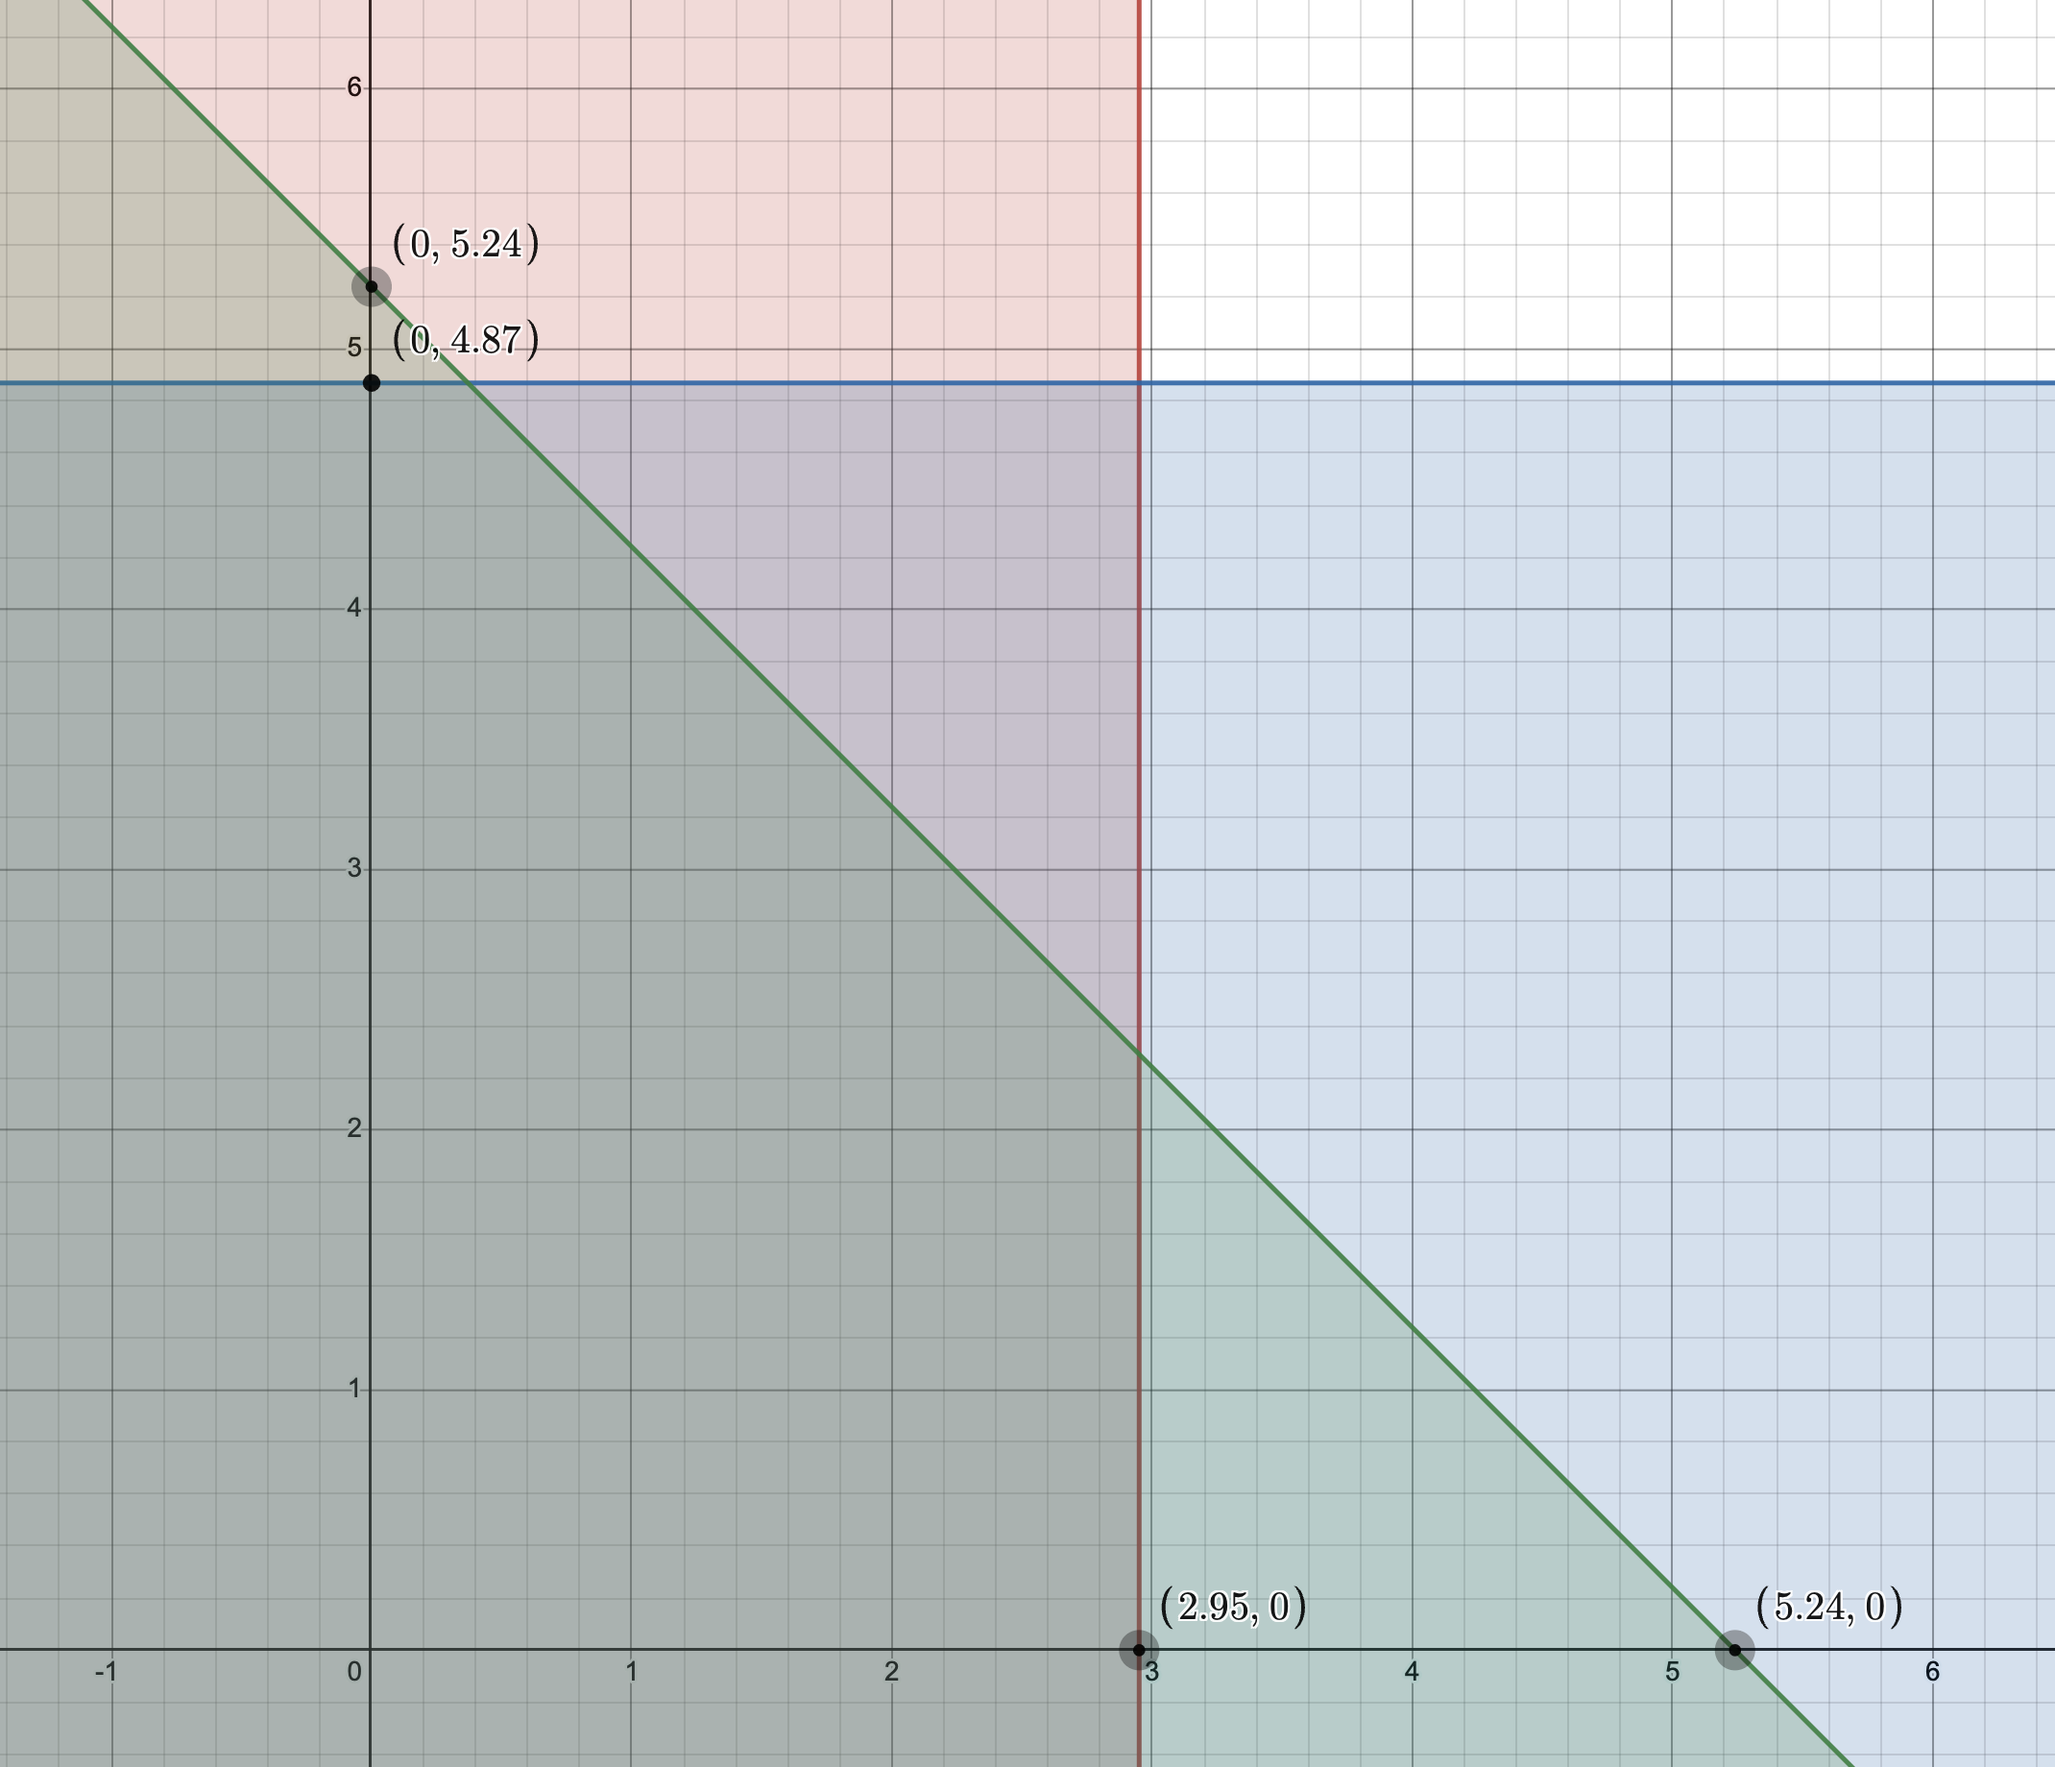
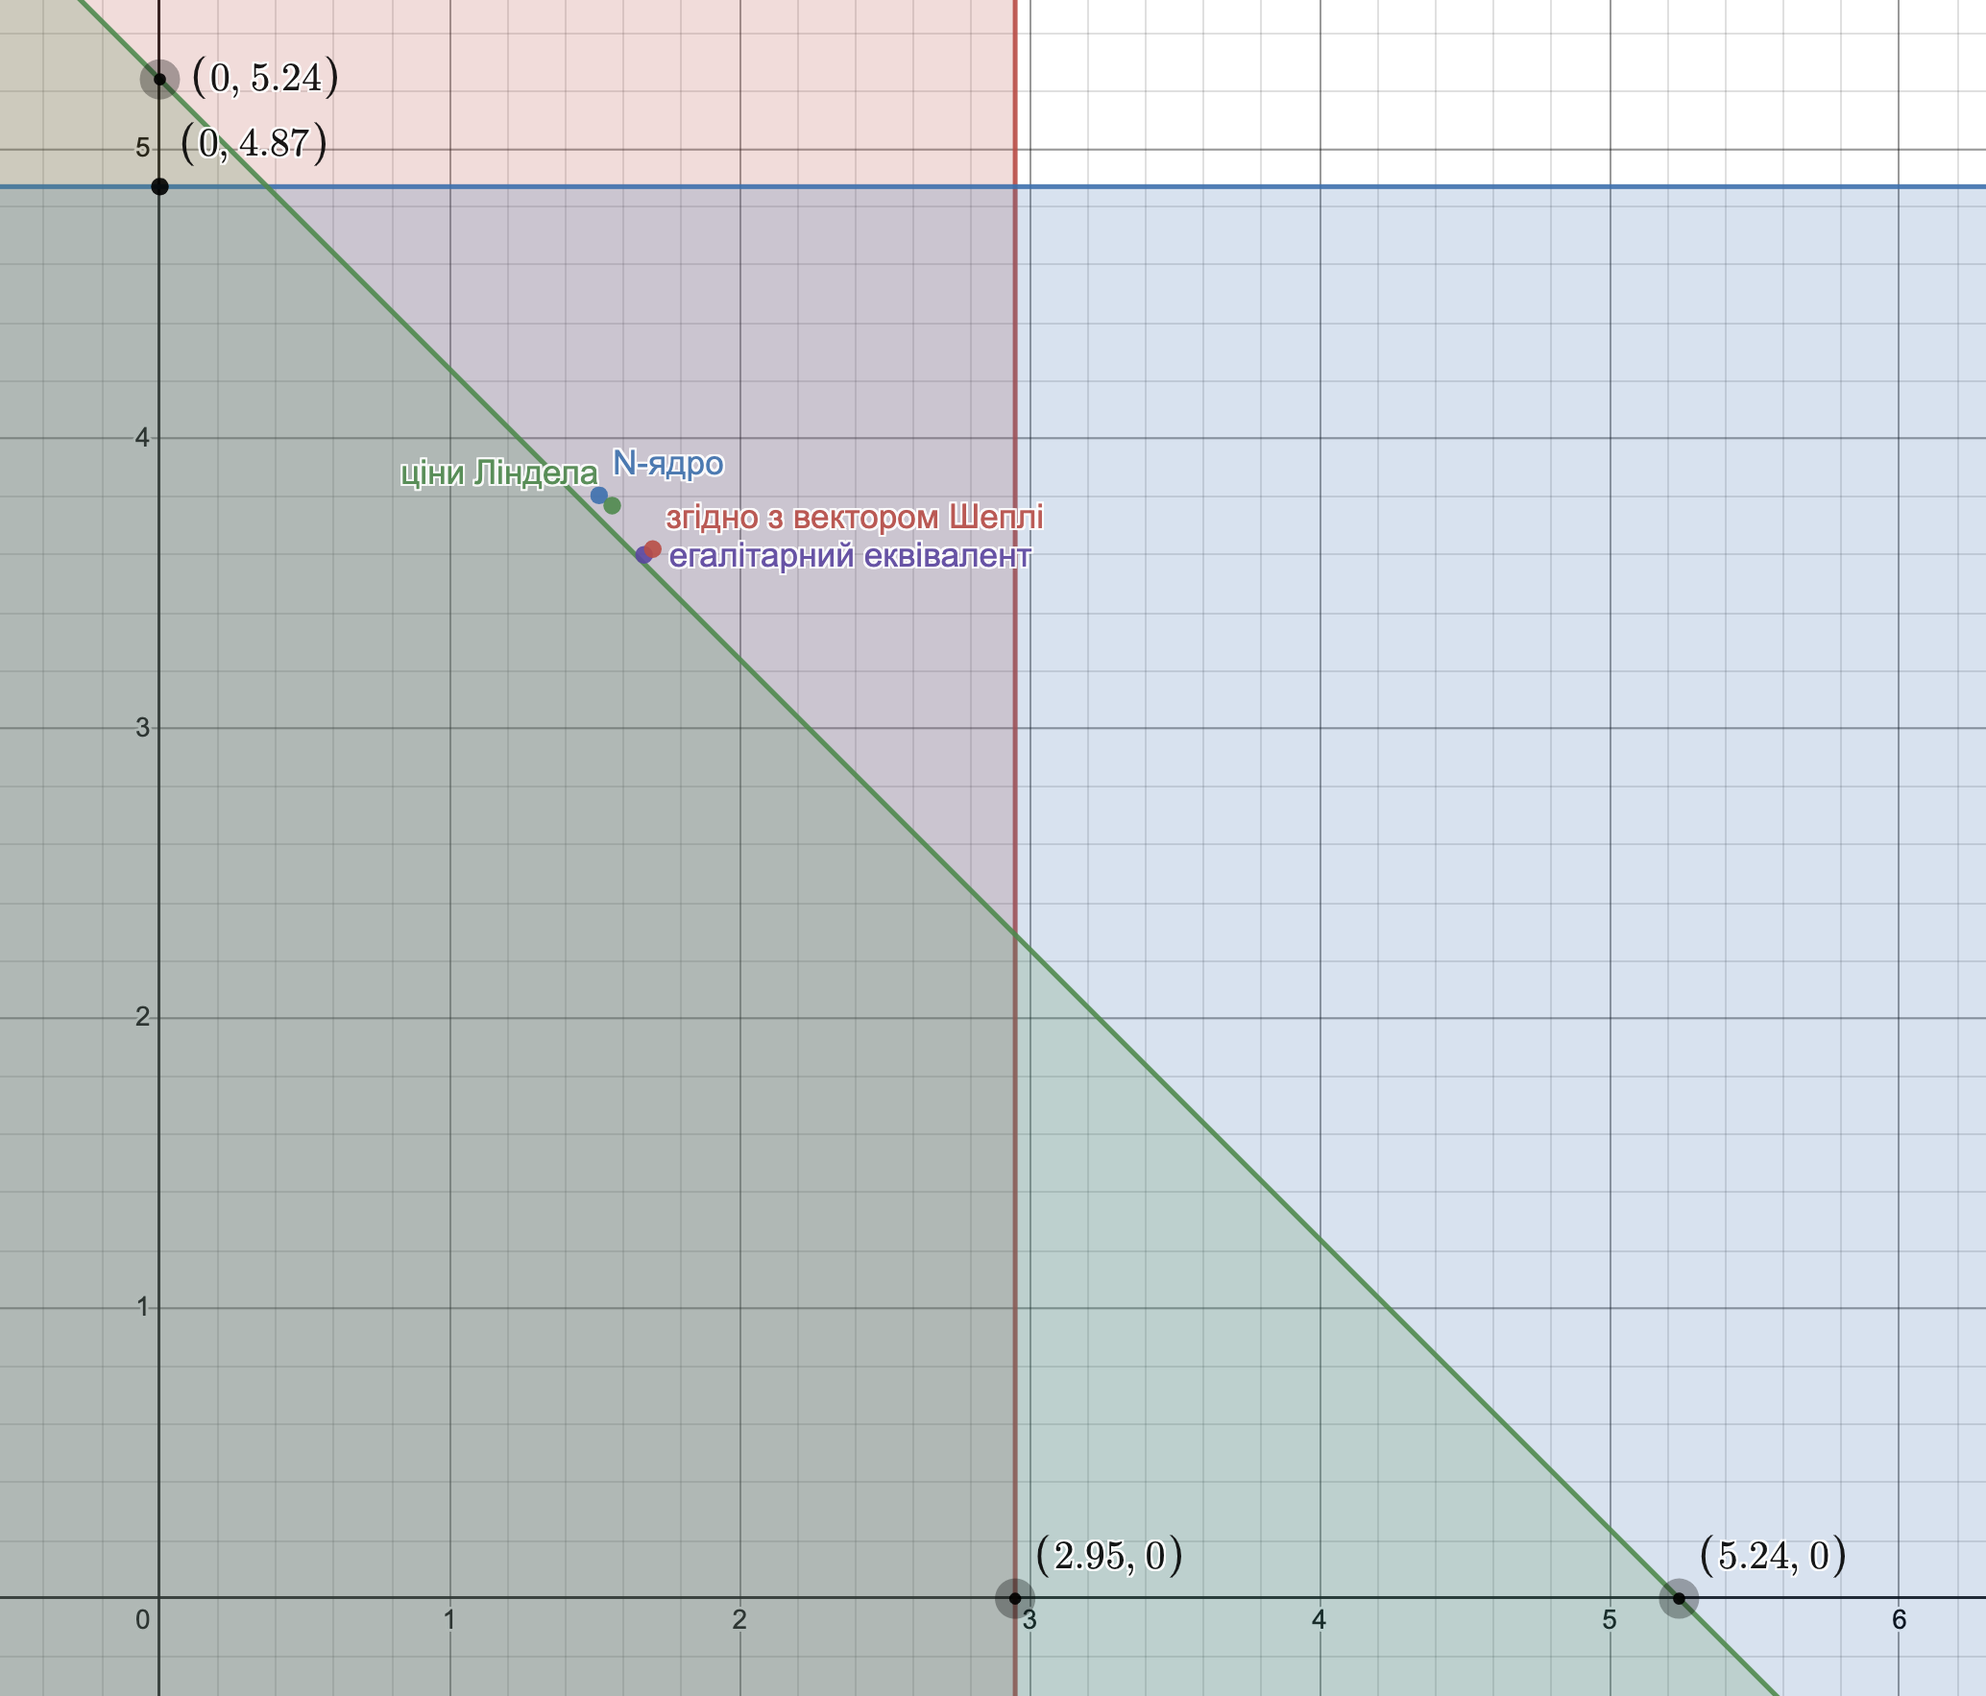
add points to graphs, fix font-size

diff --git a/src/docs/course-2/semester-2/decision/task-8/task1-1.md b/src/docs/course-2/semester-2/decision/task-8/task1-1.md
@@ -1,5 +1,7 @@
 # Задача 8.1
 
+<style>.katex { font-size: 0.9em !important; }</style>
+
 1. Нехай є п’ять учасників спільної діяльності $n = 5$. Припустимо, що доходи учасників дорівнюють відповідно: $b_1 = 4, b_2 = 8, b_3 = 12, b_4 = 20, b_5 = 26$, а загальні витрати на проект складають:
 
 а) $C = 30$ одиниць;

diff --git a/src/docs/course-2/semester-2/decision/task-9/task-1.md b/src/docs/course-2/semester-2/decision/task-9/task-1.md
@@ -1,3 +1,5 @@
+<style>.katex { font-size: 0.9em !important; }</style>
+
 # Задача 9.1
 
 Нехай є економіка виробництва суспільного продукту при наступних початкових даних:
